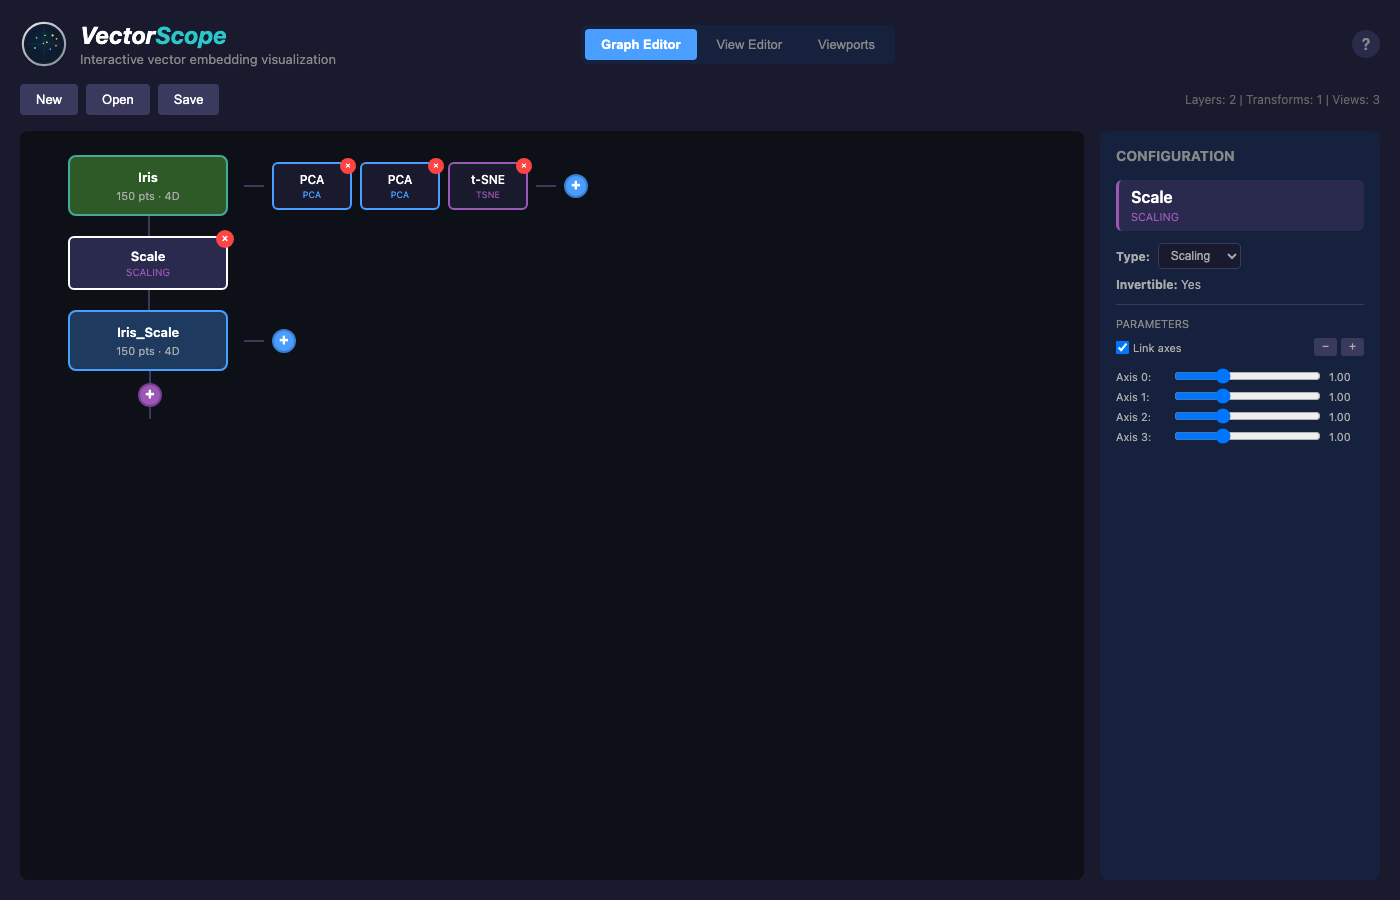
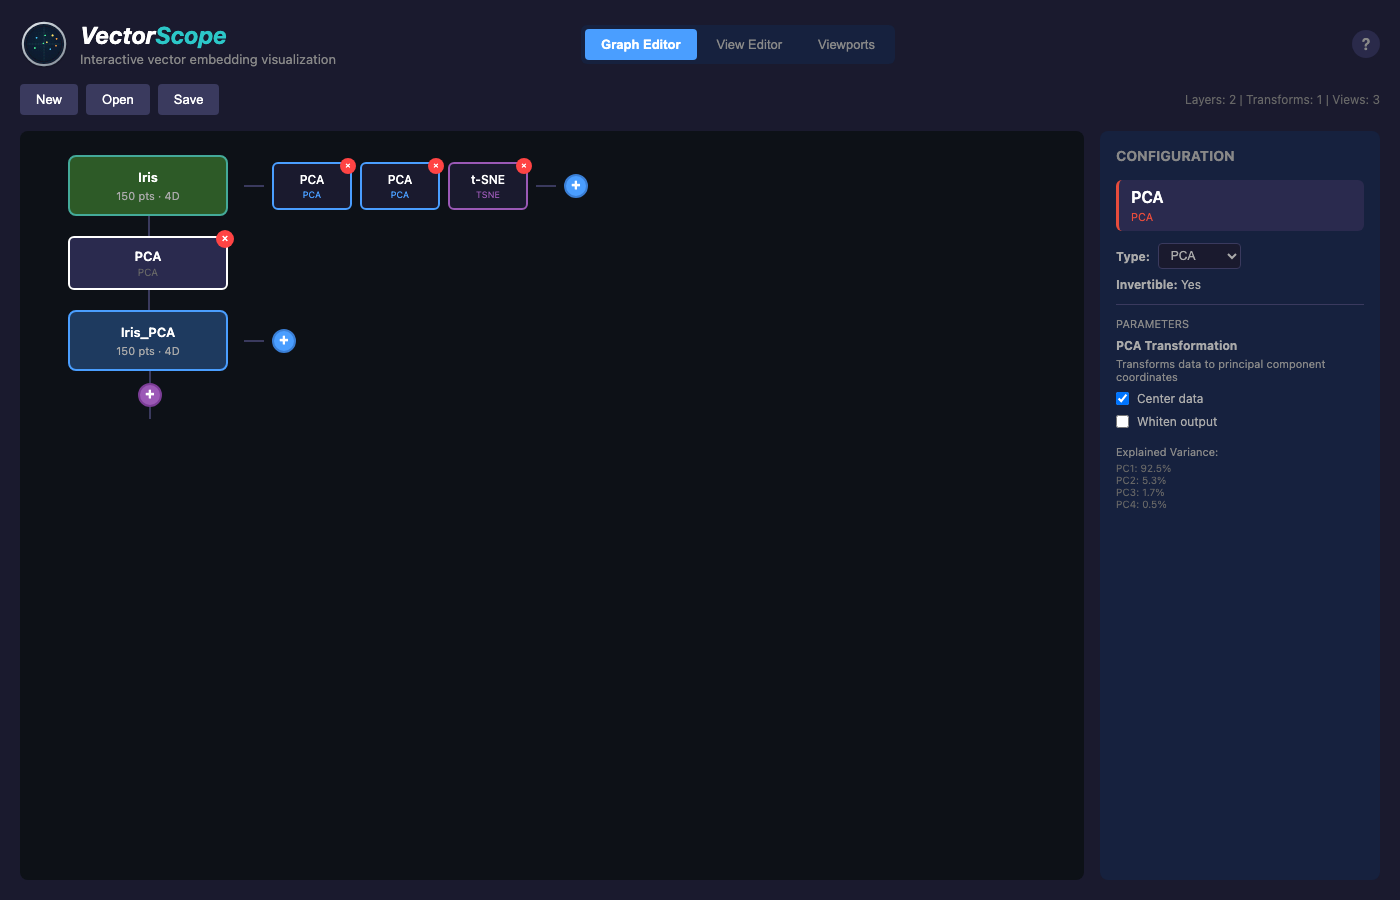
Update quickstart to show PCA transformation instead of Scaling
- Change transformation example from Scaling to PCA
- Update screenshot script to add PCA transformation
- Regenerate graph_with_transformation.png screenshot
- Update quickstart text to describe PCA transformation benefits

🤖 Generated with [Claude Code](https://claude.com/claude-code)

diff --git a/scripts/capture_screenshots.py b/scripts/capture_screenshots.py
@@ -106,21 +106,21 @@ async def capture_screenshots():
             print(f"Note: Could not add t-SNE view: {e}")
             await close_modal(page)
 
-        # Add a transformation
+        # Add a PCA transformation
         try:
             await page.click("text=Iris >> nth=0", timeout=3000)
             await page.wait_for_timeout(500)
             await page.click("button[title='Add transformation']", timeout=5000)
             await page.wait_for_timeout(500)
-            await page.click("button:has-text('Scaling')", timeout=5000)
+            await page.click("button:has-text('PCA')", timeout=5000)
             await page.wait_for_timeout(2000)
             await close_modal(page)
 
-            # Screenshot 4: Graph with transformation added
+            # Screenshot 4: Graph with PCA transformation added
             await page.screenshot(path=SCREENSHOTS_DIR / "graph_with_transformation.png")
             print("Captured: graph_with_transformation.png")
         except Exception as e:
-            print(f"Note: Could not add transformation: {e}")
+            print(f"Note: Could not add PCA transformation: {e}")
             await close_modal(page)
 
         # Switch to View Editor and select the t-SNE view to show scatter plot

diff --git a/docs/quickstart.rst b/docs/quickstart.rst
@@ -144,15 +144,17 @@ You can apply transformations to your data before projecting:
 
 1. Click on the layer node
 2. In the config panel, click "Add Transformation"
-3. Choose a transformation type (scaling, rotation, etc.)
+3. Choose a transformation type (PCA, scaling, rotation, etc.)
 
 .. figure:: _static/images/graph_with_transformation.png
-   :alt: Graph with transformation
+   :alt: Graph with PCA transformation
    :width: 100%
 
-   Graph showing a transformation node between layers.
+   Graph showing a PCA transformation node creating a derived layer.
 
 The transformation creates a new derived layer that you can project separately.
+For example, PCA transformation decorrelates your features, which can reveal
+different structure when you apply subsequent projections.
 
 Exploring Multiple Views
 ^^^^^^^^^^^^^^^^^^^^^^^^
